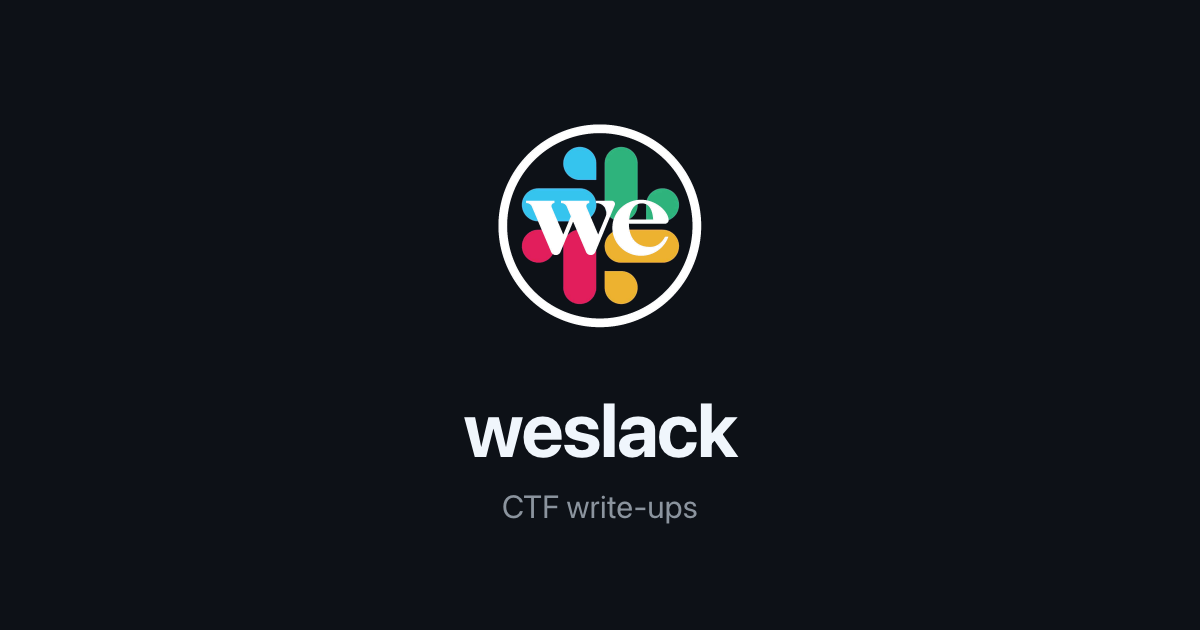
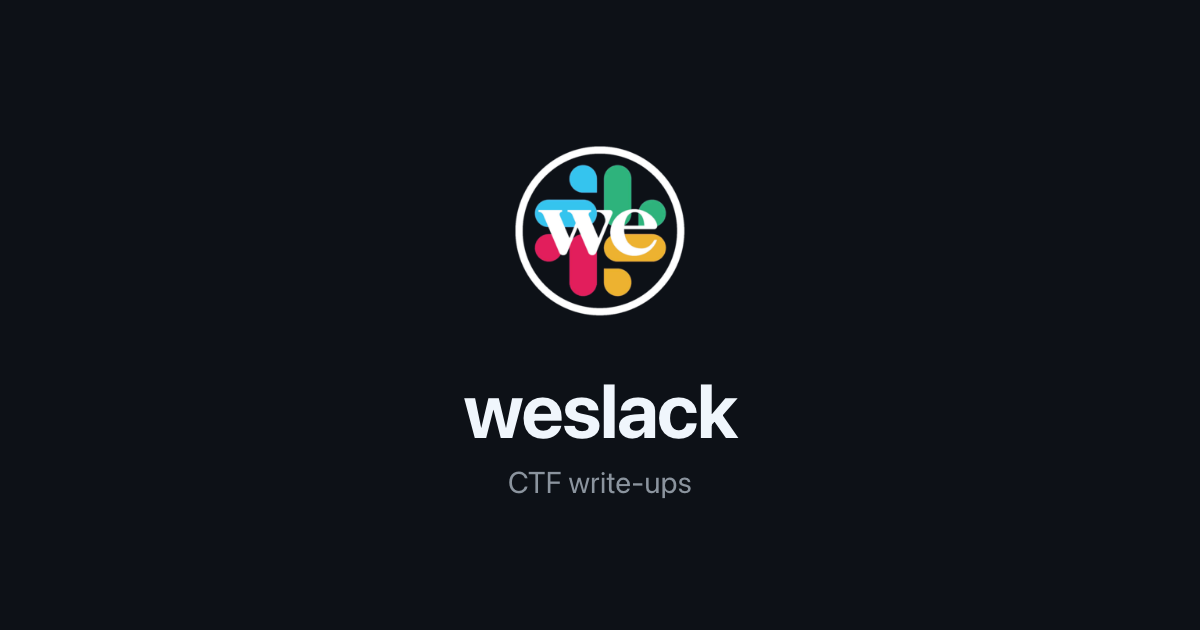
Recenter share cards for social crops; add article:published_time
The share cards anchored content to the top and bottom edges with an
empty middle, so any surface that center-crops (Slack, iMessage, Twitter,
LinkedIn) cut off the title and showed mostly void. Recenter every card
as one balanced block inside a safe area — verified the event name and
date survive both a 1:1 and a banner crop. Render the corner logo from a
pre-scaled asset so it is crisp instead of muddy.

Also set article:published_time on each event page to the last day of the
event: DC28 2020-08-09, DC29 2021-08-08, IoT Village 2021 2021-05-01 (the
last day that event's write-ups were authored).

Changed region(s): [[0.4008, 0.181, 0.5858, 0.5429], [0.37, 0.6032, 0.6167, 0.8444]]

diff --git a/site/iot-village-2021.html b/site/iot-village-2021.html
@@ -18,6 +18,7 @@
 <meta property="og:title" content="IoT Village 2021">
 <meta property="og:description" content="IoT Village CTF, spring 2021: firmware decryption, MQTT, and a pivot into a hidden subnet.">
 <meta property="og:type" content="article">
+<meta property="article:published_time" content="2021-05-01T00:00:00-07:00">
 <meta property="og:url" content="https://weslack.team/iot-village-2021">
 <meta property="og:image" content="https://weslack.team/og/iot-village-2021.png">
 <meta property="og:image:type" content="image/png">

diff --git a/site/dc28.html b/site/dc28.html
@@ -18,6 +18,7 @@
 <meta property="og:title" content="DC28">
 <meta property="og:description" content="DEF CON 28's SOHOplessly Broken CTF, August 2020. Six IoT device flags captured.">
 <meta property="og:type" content="article">
+<meta property="article:published_time" content="2020-08-09T00:00:00-07:00">
 <meta property="og:url" content="https://weslack.team/dc28">
 <meta property="og:image" content="https://weslack.team/og/dc28.png">
 <meta property="og:image:type" content="image/png">

diff --git a/site/dc29.html b/site/dc29.html
@@ -18,6 +18,7 @@
 <meta property="og:title" content="DC29">
 <meta property="og:description" content="DEF CON 29, August 2021: mapping a NAS-heavy network and picking attack vectors.">
 <meta property="og:type" content="article">
+<meta property="article:published_time" content="2021-08-08T00:00:00-07:00">
 <meta property="og:url" content="https://weslack.team/dc29">
 <meta property="og:image" content="https://weslack.team/og/dc29.png">
 <meta property="og:image:type" content="image/png">
